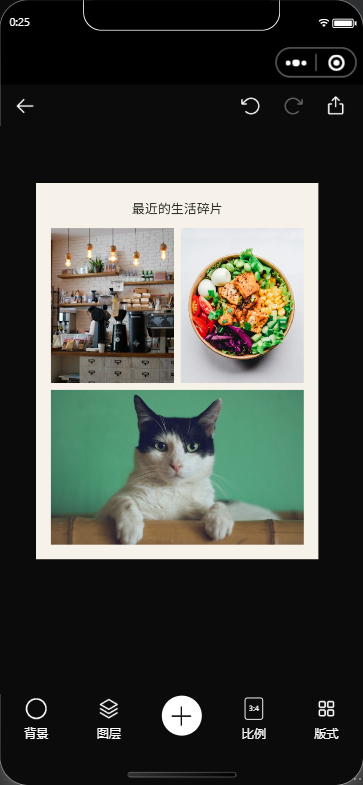
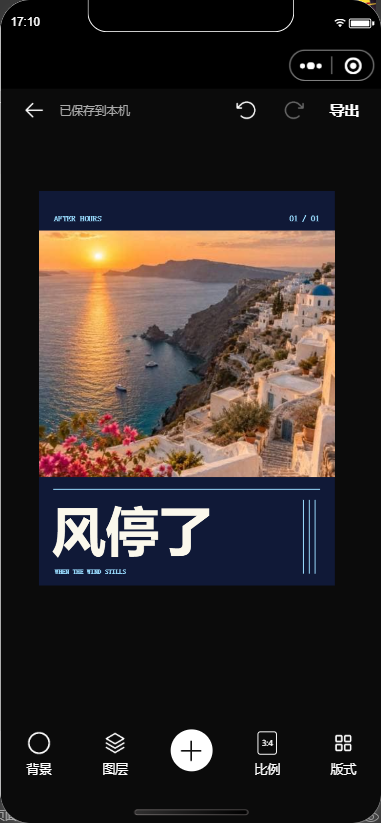
feat(home): 恢复小程序和 Web 作品并更新截图轮播
从拼一页和薪动当前项目重新采集 11 张截图，恢复六语介绍、已确认的发布状态和产品入口。统一卡片内侧按钮、滑动与键盘切换，拼一页返回首项恢复组合，薪动响应式使用横竖屏截图。同步独立页图片和 README，完成构建、站点检查及英简繁桌面与窄屏实际渲染验证。

diff --git a/src/styles/playground.css b/src/styles/playground.css
@@ -46,7 +46,7 @@ html:is([lang=en],[lang=es]) .work-categories{width:min(100%,500px)}
 }
 .product-flappy{background:radial-gradient(ellipse at 60% 30%,#fff1e1,#fff4e8)}
 .product-pinyiye{grid-column:1/-1;height:auto;min-height:calc(390 * var(--u));grid-template-columns:minmax(0,.95fr) minmax(0,1fr);padding:calc(28 * var(--u)) calc(48 * var(--u));gap:calc(48 * var(--u));background:#edf4e9}
-.pinyiye-artwork{position:relative;align-self:center;width:100%;height:calc(340 * var(--u));padding:0;border:0;border-radius:20px;background:transparent;cursor:zoom-in}
+.pinyiye-artwork{position:relative;align-self:center;width:100%;height:calc(340 * var(--u));padding:0;border:0;border-radius:20px;background:transparent}
 .pinyiye-print{position:absolute;top:calc(60 * var(--u));width:42%;max-width:calc(165 * var(--u));box-shadow:0 8px 18px #30463426}
 .pinyiye-print img{display:block;width:100%;height:auto}
 .pinyiye-print-weekend{left:0;transform:rotate(-10deg)}
@@ -77,6 +77,7 @@ html:is([lang=en],[lang=es]) .work-categories{width:min(100%,500px)}
 .carousel-viewport::-webkit-scrollbar{display:none}
 .carousel-slide{position:relative;display:block;flex:0 0 100%;width:100%;height:100%;min-width:0;padding:0;border:0;background:transparent;scroll-snap-align:start;scroll-snap-stop:always}
 .carousel-single{display:block;width:100%;height:100%}
+.carousel-single>picture{display:block;width:100%;height:100%}
 .carousel-intro{display:none;position:absolute;inset:0;transform:scale(.94)}
 [data-carousel-intro]:not([data-carousel-started]) .carousel-slide:first-child .carousel-single{visibility:hidden}
 [data-carousel-intro]:not([data-carousel-started]) .carousel-intro{display:block}
@@ -90,6 +91,28 @@ html:is([lang=en],[lang=es]) .work-categories{width:min(100%,500px)}
 .carousel-arrow:focus-visible{opacity:1;pointer-events:auto;outline-offset:-4px}
 .carousel-status{position:absolute;width:1px;height:1px;overflow:hidden;clip-path:inset(50%);white-space:nowrap}
 @media(hover:hover) and (pointer:fine){.carousel-arrow{pointer-events:auto}.carousel-arrow:hover{opacity:1}}
+.product-pinyiye .product-carousel{--carousel-height:calc(340 * var(--u));width:100%;height:var(--carousel-height);max-width:430px;aspect-ratio:auto;justify-self:center}
+.product-pinyiye .carousel-viewport{border-radius:0;background:transparent;box-shadow:none}
+.product-pinyiye [data-carousel-started] .carousel-viewport{width:calc(var(--carousel-height) * .75);max-width:100%;margin:auto}
+.product-pinyiye .pinyiye-artwork{display:block;height:100%}
+.product-pinyiye .pinyiye-phone img{width:auto;height:100%}
+.product-pinyiye .pinyiye-print{top:13%;height:74%;width:33%;max-width:none}
+.product-pinyiye .pinyiye-print img{width:100%;height:100%;object-fit:contain}
+.product-pinyiye .pinyiye-print-weekend{left:4%}
+.product-pinyiye .pinyiye-print-sunshine{right:4%;top:16%}
+.product-golden-hour{grid-column:1/-1;height:auto;min-height:440px;grid-template-columns:minmax(0,1.35fr) minmax(280px,.65fr);gap:46px;align-items:center;padding:40px;background:#fff0c5}
+.product-golden-hour .product-carousel{width:100%;height:auto;max-width:none;aspect-ratio:1440/1000;justify-self:center}
+.product-golden-hour .carousel-viewport{position:absolute;inset:0;border-radius:24px;background:#15140f;box-shadow:0 24px 48px #5e410c33}
+.golden-demo-label{position:absolute;top:16px;left:16px;border-radius:99px;background:#fffcf6;color:#60450e;padding:8px 12px;font-size:11px;font-weight:900;box-shadow:0 8px 20px #0003}
+.golden-hour-info h3{font-size:34px;letter-spacing:-.03em;line-height:1.2;margin:0 0 18px}
+.golden-hour-info .product-description{font-size:15px;line-height:1.75;min-height:0;max-width:440px;margin-bottom:16px;text-wrap:pretty}
+.golden-hour-meta .product-type,.golden-hour-meta .product-status{margin:0;padding:8px 15px;font-size:14px}
+.golden-hour-meta .product-type{background:#efd38c;color:#65480e}.golden-hour-meta .product-status{background:#d6f0dd;color:#275b36}
+.golden-hour-link{display:inline-flex;align-items:center;gap:16px;margin-top:22px;color:#75530d;font-size:15px;font-weight:900;text-decoration:underline;text-underline-offset:6px}
+.golden-hour-link:hover{color:#a5263e}
+.golden-hour-link:focus-visible{outline:3px solid #7f5e15;outline-offset:5px;border-radius:4px}
+@media(min-width:768px) and (max-width:1023px){.product-pinyiye .product-carousel{--carousel-height:300px}.product-golden-hour{padding:32px;gap:32px}.golden-hour-info h3{font-size:28px}}
+@media(max-width:767px){.product-pinyiye .product-carousel{--carousel-height:290px;max-width:360px}.product.product-golden-hour{grid-template-columns:minmax(0,1fr);padding:25px 20px 30px;gap:28px;min-height:0}.product-golden-hour .product-carousel{max-width:240px;aspect-ratio:390/844}.product-golden-hour .carousel-viewport{border-radius:18px}.golden-hour-info{padding:0}.golden-hour-info h3{font-size:29px}.golden-hour-info .product-description{font-size:14px}.golden-hour-link{margin-top:20px}}
 .product-info{padding-top:calc(19 * var(--u));display:flex;align-items:flex-start;flex-direction:column;min-width:0}
 .product-info h3{font-size:calc(36 * var(--u));font-weight:900;line-height:1.02;letter-spacing:-.045em;margin-bottom:calc(19 * var(--u))}
 .product-info h3 span{display:block}
@@ -140,6 +163,11 @@ body.playground .lang-menu .lang-option{font-size:14px!important;padding:12px 16
 .mini-program-dialog{border:0;border-radius:24px;padding:20px;background:#fffcf6;color:#16191c;max-width:min(560px,calc(100vw - 28px));width:100%;max-height:calc(100dvh - 32px);margin:auto;box-shadow:0 24px 120px #0004}
 .mini-program-dialog::backdrop{background:#0f1519b3;backdrop-filter:blur(6px)}
 .mini-program-dialog{width:360px;max-width:calc(100vw - 32px);padding:24px;overflow:auto;text-align:center}
+body.mini-program-open{overflow:hidden}
+.mini-program-header{display:flex;align-items:center;justify-content:space-between;gap:16px}
+.mini-program-header h2{font-size:20px;font-weight:900}
+.mini-program-close{flex:none;border:0;width:44px;height:44px;border-radius:50%;background:#eee9df;cursor:pointer;color:#16191c;font-size:26px!important}
+.mini-program-close:hover{background:#ffe2bc}
 .mini-program-code{width:258px;height:auto;max-width:100%;margin:20px auto 0;background:#fff}
 .mini-program-code-hint{margin-top:20px;color:#314637;font-size:15px;line-height:1.7;text-wrap:pretty}
 @media(prefers-reduced-motion:no-preference){html{scroll-behavior:smooth}}

diff --git a/src/i18n/ko.ts b/src/i18n/ko.ts
@@ -5,7 +5,7 @@ export const koHome = {
   explore: '작품 둘러보기', selected: '주요 작품', categories: { label: '종류별 작품 보기', all: '전체', games: '게임', mini: '미니앱', apps: '웹 앱', result: '표시된 작품: {count}개' },
   breakout: '간결한 벽돌 깨기. 공이 튕기는 순간에 집중하세요.', flappy: '탭해서 뛰어오르고, 링을 통과하며 별을 모으세요.',
   youcanup: { name: 'YouCanUp', description: '길게 눌러 힘을 모으고 손을 떼어 점프하세요. 클레이 세상에서 최고 기록에 도전해 보세요.', menuAlt: '주황색 클레이 캐릭터가 보라색과 초록색 발판 사이를 뛰는 YouCanUp 메뉴', gameplayAlt: '입체 발판, 높이 점수, 길게 누르기 버튼이 표시된 YouCanUp 게임 화면', aimAlt: '알록달록한 아치 사이에서 목표 발판으로 점프하는 YouCanUp 캐릭터', chargeAlt: '손을 떼어 점프하는 버튼이 표시된 YouCanUp 충전 화면', resultsAlt: '11.8미터 신기록을 표시하는 YouCanUp 결과 화면', outfitsAlt: '클레이 캐릭터 여섯 가지를 표시하는 YouCanUp 꾸미기 화면' },
-  pinyiye: { name: '拼一页', description: '사진을 배치하고 글을 더해 콜라주를 한 장의 이미지로 저장하세요.', type: '미니앱', platform: 'WeChat', status: '출시됨', open: '미니앱 열기', codeHint: 'WeChat으로 코드를 스캔해 미니앱을 여세요.', codeAlt: '拼一页의 WeChat 미니앱 코드', closeCode: '미니앱 코드 닫기', editorAlt: '사진 세 장의 콜라주와 편집 도구가 표시된 拼一页 사진 편집기', weekendAlt: '종이 액자와 테이프로 꾸민 주말 사진 네 장의 콜라주', sunshineAlt: '사진 액자가 겹쳐진 바닷가 콜라주', exportAlt: '이미지 저장 및 미리보기 기능이 있는 拼一页 내보내기 화면' },
+  pinyiye: { name: '拼一页', description: '사진을 배치하고 글을 더해 콜라주를 한 장의 이미지로 저장하세요.', type: '미니앱', platform: 'WeChat', status: '출시됨', open: '미니앱 열기', codeHint: 'WeChat으로 코드를 스캔해 미니앱을 여세요.', codeAlt: '拼一页의 WeChat 미니앱 코드', closeCode: '미니앱 코드 닫기', homeAlt: '템플릿 표지와 사진 이야기가 표시된 拼一页 홈', templatesAlt: '검색과 장면별 카테고리가 있는 拼一页 템플릿 목록', detailAlt: '사진 포스터와 템플릿 사용 버튼이 있는 拼一页 상세 화면', editorAlt: '배경, 레이어, 비율 및 내보내기 도구가 있는 拼一页 사진 포스터 편집기', weekendAlt: '종이 액자와 테이프로 꾸민 주말 사진 네 장의 콜라주', sunshineAlt: '사진 액자가 겹쳐진 바닷가 콜라주', exportAlt: '이미지 저장 및 미리보기 기능이 있는 拼一页 내보내기 화면' },
   goldenHour: { name: '薪动 · Golden Hour', description: '근무 수입 예상치가 실시간으로 늘어나는 모습을 보고 오늘, 이번 달, 올해의 기록을 돌아보세요.', type: '웹 앱', platform: '브라우저', status: '출시됨', open: '제품 보기', dashboardAlt: '데모 수입 데이터를 표시하는 薪动 메인 화면', monthlyAlt: '데모 수입 데이터를 표시하는 薪动 월간 달력', yearlyAlt: '데모 수입 데이터를 표시하는 薪动 연간 보고서', demo: '데모 데이터' },
   game: '게임', available: '출시됨', coming: '출시 예정', download: '다운로드하기', philosophy: '작은 디테일로 더 나은 경험을.',
   values: [{ title: '더 편리하게', body: '간단하고 직관적으로, 필요한 도움을' }, { title: '더 즐겁게', body: '평범한 일상 속 작은 즐거움을' }, { title: '꾸준한 개선', body: '작은 부분부터 정성껏 다듬습니다' }],

diff --git a/src/i18n/es.ts b/src/i18n/es.ts
@@ -5,7 +5,7 @@ export const esHome = {
   categories: { label: 'Filtrar proyectos por tipo', all: 'Todos', games: 'Juegos', mini: 'Miniapps', apps: 'Apps web', result: 'Proyectos mostrados: {count}' },
   breakout: 'Rompe ladrillos sin distracciones. Haz que cada rebote cuente.', flappy: 'Toca para saltar. Atraviesa los aros y recoge las estrellas.',
   youcanup: { name: 'YouCanUp', description: 'Mantén pulsado para cargar, suelta para saltar y supera tu récord en un mundo de plastilina.', menuAlt: 'Menú de YouCanUp con un personaje naranja de plastilina que salta entre plataformas moradas y verdes', gameplayAlt: 'Partida de YouCanUp con plataformas 3D, contador de altura y botón para cargar el salto', aimAlt: 'Personaje de YouCanUp saltando hacia una plataforma entre arcos de colores', chargeAlt: 'YouCanUp cargando un salto con el botón para soltar y saltar', resultsAlt: 'Resultados de YouCanUp con un nuevo récord de 11,8 metros', outfitsAlt: 'Pantalla de apariencia de YouCanUp con seis personajes de plastilina' },
-  pinyiye: { name: '拼一页', description: 'Organiza tus fotos, añade texto y exporta tu collage como una sola imagen.', type: 'Miniapp', platform: 'WeChat', status: 'Publicada', open: 'Abrir miniapp', codeHint: 'Escanea el código con WeChat para abrir la miniapp.', codeAlt: 'Código de la miniapp de WeChat Pinyiye', closeCode: 'Cerrar código de la miniapp', editorAlt: 'Editor de fotos Pinyiye con un collage de tres fotos y herramientas de edición', weekendAlt: 'Collage de cuatro fotos de fin de semana con marcos de papel y cinta adhesiva', sunshineAlt: 'Collage junto al mar con marcos de fotos superpuestos', exportAlt: 'Pantalla de exportación de Pinyiye con opciones para guardar y previsualizar la imagen' },
+  pinyiye: { name: '拼一页', description: 'Organiza tus fotos, añade texto y exporta tu collage como una sola imagen.', type: 'Miniapp', platform: 'WeChat', status: 'Publicada', open: 'Abrir miniapp', codeHint: 'Escanea el código con WeChat para abrir la miniapp.', codeAlt: 'Código de la miniapp de WeChat Pinyiye', closeCode: 'Cerrar código de la miniapp', homeAlt: 'Inicio de Pinyiye con portadas de plantillas e historias fotográficas', templatesAlt: 'Biblioteca de plantillas Pinyiye con búsqueda y categorías', detailAlt: 'Detalle de plantilla Pinyiye con un póster fotográfico y el botón para usarla', editorAlt: 'Editor de pósteres Pinyiye con herramientas de fondo, capas, proporción y exportación', weekendAlt: 'Collage de cuatro fotos de fin de semana con marcos de papel y cinta adhesiva', sunshineAlt: 'Collage junto al mar con marcos de fotos superpuestos', exportAlt: 'Pantalla de exportación de Pinyiye con opciones para guardar y previsualizar la imagen' },
   goldenHour: { name: '薪动 · Golden Hour', description: 'Observa crecer en tiempo real una estimación de tus ingresos y revisa los registros del día, el mes y el año.', type: 'App web', platform: 'Navegador', status: 'Publicada', open: 'Ver producto', dashboardAlt: 'Panel de 薪动 con datos de ingresos de demostración', monthlyAlt: 'Calendario mensual de 薪动 con datos de ingresos de demostración', yearlyAlt: 'Informe anual de 薪动 con datos de ingresos de demostración', demo: 'Datos de demostración' },
   game: 'Juego', available: 'Disponible', coming: 'Próximamente', download: 'Descárgalo en', philosophy: 'Pequeños detalles. Mejores experiencias.',
   values: [{ title: 'Un poco más fácil', body: 'Sencillo, intuitivo y pensado para ayudar' }, { title: 'Un poco más alegre', body: 'Encuentra diversión en lo cotidiano' }, { title: 'Siempre mejorando', body: 'Cuidamos y pulimos cada detalle' }],

diff --git a/src/i18n/home.ts b/src/i18n/home.ts
@@ -33,7 +33,10 @@ const originalHomeCopy = {
       codeHint: 'Scan with WeChat to open the Mini Program.',
       codeAlt: 'WeChat Mini Program code for Pinyiye',
       closeCode: 'Close Mini Program code',
-      editorAlt: 'Pinyiye photo editor with a three-photo collage and editing tools',
+      homeAlt: 'Pinyiye home with template covers and featured photo stories',
+      templatesAlt: 'Pinyiye template library with search and scene categories',
+      detailAlt: 'Pinyiye template detail with a photo poster and the use template button',
+      editorAlt: 'Pinyiye photo poster editor with background, layers, ratio and export tools',
       weekendAlt: 'A four-photo weekend collage with paper frames and tape',
       sunshineAlt: 'A seaside collage with overlapping photo frames',
       exportAlt: 'Pinyiye export screen with save image and preview controls',
@@ -85,7 +88,10 @@ const originalHomeCopy = {
       codeHint: '使用微信扫一扫打开小程序。',
       codeAlt: '拼一页微信小程序码',
       closeCode: '关闭小程序码',
-      editorAlt: '拼一页照片编辑器，展示三张照片组成的拼图与编辑工具',
+      homeAlt: '拼一页首页，展示模板封面与精选照片故事',
+      templatesAlt: '拼一页模板库，展示搜索与场景分类',
+      detailAlt: '拼一页模板详情，展示照片海报与使用模板按钮',
+      editorAlt: '拼一页照片海报编辑器，展示背景、图层、比例和导出工具',
       weekendAlt: '带有纸质相框和胶带的四张照片周末拼图',
       sunshineAlt: '带有叠放相框的海边照片拼图',
       exportAlt: '拼一页导出界面，提供保存图片与预览大图功能',
@@ -136,7 +142,10 @@ const originalHomeCopy = {
       codeHint: '使用微信掃一掃開啟小程式。',
       codeAlt: '拼一页微信小程式碼',
       closeCode: '關閉小程式碼',
-      editorAlt: '拼一页照片編輯器，展示三張照片組成的拼圖與編輯工具',
+      homeAlt: '拼一页首頁，展示範本封面與精選照片故事',
+      templatesAlt: '拼一页範本庫，展示搜尋與場景分類',
+      detailAlt: '拼一页範本詳情，展示照片海報與使用範本按鈕',
+      editorAlt: '拼一页照片海報編輯器，展示背景、圖層、比例和匯出工具',
       weekendAlt: '帶有紙質相框和膠帶的四張照片週末拼圖',
       sunshineAlt: '帶有疊放相框的海邊照片拼圖',
       exportAlt: '拼一页匯出介面，提供儲存圖片與預覽大圖功能',

diff --git a/src/i18n/ja.ts b/src/i18n/ja.ts
@@ -22,7 +22,10 @@ export const jaHome = {
     name: '拼一页', description: '写真を並べて文字を添え、コラージュを1枚の画像に書き出せます。',
     type: 'ミニアプリ', platform: 'WeChat', status: '公開済み', open: 'ミニアプリを開く',
     codeHint: 'WeChat でコードを読み取ってミニアプリを開いてください。', codeAlt: '拼一页の WeChat ミニアプリコード', closeCode: 'ミニアプリコードを閉じる',
-    editorAlt: '3枚の写真のコラージュと編集ツールを表示した拼一页の写真エディター',
+    homeAlt: 'テンプレートの表紙と写真ストーリーを表示した拼一页のホーム',
+    templatesAlt: '検索とシーン別カテゴリがある拼一页のテンプレート一覧',
+    detailAlt: '写真ポスターとテンプレートを使うボタンがある拼一页の詳細画面',
+    editorAlt: '背景、レイヤー、比率、書き出しツールがある拼一页の写真ポスターエディター',
     weekendAlt: '紙のフレームとテープで飾った4枚の週末写真のコラージュ', sunshineAlt: '写真のフレームを重ねた海辺のコラージュ',
     exportAlt: '画像の保存とプレビューができる拼一页の書き出し画面',
   },

diff --git a/README.md b/README.md
@@ -7,7 +7,7 @@
 - 展示《你行你上啊 · YouCanUp》和《Minimalist Breakout》的介绍与游戏截图
 - 首页展示《你行你上啊》（YouCanUp）的图标、实机截图与简洁玩法介绍；当前标注 iOS、即将推出，产品介绍格式见 `AGENTS.md`
 - YouCanUp 与 Minimalist Breakout 的首页展示图及截图轮播已同步项目现有的新素材，来源与更新日期见下方“内容维护”
-- 首页仅展示游戏，不再展示小程序和 Web 项目，也不再提供作品分类筛选
+- 首页展示两款游戏、「拼一页」微信小程序和「薪动 · Golden Hour」Web 项目，不提供作品分类筛选
 - 「薪动 · Golden Hour」保留六语独立落地页，分区介绍日常计薪、收入记录与分享、浏览器与安装、数据与隐私。桌面与手机采用对应的真实截图，按原比例显示。
 - 提供英语、简体中文、繁体中文、日语、韩语和西班牙语页面；英语为默认语言
 - 包含关于我们、技术支持、隐私政策和服务条款页面
@@ -61,7 +61,7 @@ npm run dev
 
 独立的 `/motion-studies/` 对比页保留第二轮“整卡推近”“图文对向入场”“叠卡交接”和静态基线，使用真实首页，支持六语、宽屏/手机及自动滚动演示。预览通过 iframe 标识与 `motion-study` 参数关闭首页自动安装的动效，再由对比页安装所选方案，预览内导航后也不会重复安装。旧方案与验证记录保留在 `docs/design/2026-10-16-scroll-motion/` 作为历史记录。
 
-首页精选作品仅展示 YouCanUp 和 Minimalist Breakout，桌面端各占一整行；Flappy Ball Hop 展示及其页脚入口已移除。产品图片不再提供弹框预览或放大入口。历史作品分类实现与六语文案暂时保留，但首页不再加载分类脚本或渲染筛选控件；历史方案及截图见 `docs/design/2026-10-16-work-categories/`。
+首页精选作品展示薪动、拼一页、YouCanUp 和 Minimalist Breakout，桌面端各占一整行；Flappy Ball Hop 展示及其页脚入口已移除。四款产品共用 `ProductCarousel.astro` 与 `src/scripts/product-carousel.ts`，截图均不提供弹框预览或放大入口。历史作品分类实现与六语文案暂时保留，但首页不加载分类脚本或渲染筛选控件；历史方案及截图见 `docs/design/2026-10-16-work-categories/`。
 
 YouCanUp 和 Minimalist Breakout 的首页产品图共用 `ProductCarousel.astro` 与 `src/scripts/product-carousel.ts`，各提供六张截图，不自动播放。YouCanUp 第一项为原来的菜单与实机双图组合，向右切换后每次显示一张，向左切回第一项恢复双图，无需刷新；双图与单图可以反复往返切换。Minimalist Breakout 默认只显示第一张。手机可左右滑动，触控板可横向滚动；桌面鼠标移到作品卡片左右内边缘时显示对应箭头，按钮距边缘 8px、垂直居中，单图与双图模式保持相同位置，点击切换。键盘可聚焦箭头或当前截图，用方向键切换，首尾箭头按实际位置禁用；纵向手势仍滚动页面。悬停或点击截图均不打开弹框。未启用 JavaScript 时仍可原生横向浏览截图。
 
@@ -89,9 +89,11 @@ YouCanUp 和 Minimalist Breakout 的首页产品图共用 `ProductCarousel.astro
 - 2026-11-06 六语法律文档已补充 YouCanUp 的 Game Center 资料、玩家标识与本地哈希、排行榜成绩同步、公开展示、Apple 保存及退出／删除边界；隐私政策另说明独立统计先同意、拒绝仍可游玩、设置中撤回及历史数据处理边界；服务条款说明每局最多成功复活一次、广告奖励确认条件和续玩成绩规则
 - 提交前至少执行一次 `npm run build`
 
-「拼一页」已从六语首页移除，截图预览与小程序码弹窗也不再渲染。原有 `src/i18n/home.ts` 的 `pinyiye` 文案与 `src/assets/pinyiye/` 素材保留，小程序码保留原始文件，不做有损转换或裁切。
+2026-11-16 恢复「拼一页」六语首页展示，用户已确认正式发布。使用 `photo-collage-mini-program` 当前 `71d2fae` 代码，在微信开发者工具重新截取首页、模板库、模板详情、编辑器和导出页，保存到 `src/assets/pinyiye/` 的 `home.png`、`templates.png`、`detail.png`、`editor.png`、`export.png`。第一项为编辑器与两张界面的组合，向右逐张切换，返回第一项恢复组合。产品入口打开原有微信小程序码供扫描；小程序码使用原始文件，不做有损转换或裁切，点击截图本身不弹框。
 
-2026-11-16 更新游戏截图：YouCanUp 使用相邻 `you-can-up-godot-handoff` 项目中 `game/output/app-store-media/editor/public/screenshots/search-menu/zh-Hans.png` 的菜单图，以及 `apple/iphone/zh-Hans/` 的五张游戏截图，同步到 `src/assets/youcanup/`，包括菜单、待蓄力、瞄准、蓄力、结算和造型；Minimalist Breakout 使用相邻 `minimalist-breakout` 项目中 `design/v1.1/store/screenshots/` 的六张截图，按文件名顺序同步到 `src/assets/screenshots/minimalist-breakout/1.png` 至 `6.png`。原图直接复制，首页轮播与截图弹窗共用并完整显示画面。
+同日恢复「薪动 · Golden Hour」六语首页，基于 `golden-hour` 当前 `a7a71ad` 的本地运行界面重新截取主界面、月历、年报，桌面 1440×1000、手机 390×844，共六张图片，更新 `src/assets/golden-hour/`。采集使用内存中的示例记录和演示模式，不读取或写入个人收入归档；页面标注演示数据。桌面和窄屏自动显示对应截图，产品链接通向当前语言的独立落地页，落地页共享更新后的图片。两个恢复项目的切换按钮与 YouCanUp 相同，固定在作品卡片左右内边缘，支持鼠标、键盘及滑动。
+
+2026-11-16 更新游戏截图：YouCanUp 使用相邻 `you-can-up-godot-handoff` 项目中 `game/output/app-store-media/editor/public/screenshots/search-menu/zh-Hans.png` 的菜单图，以及 `apple/iphone/zh-Hans/` 的五张游戏截图，同步到 `src/assets/youcanup/`，包括菜单、待蓄力、瞄准、蓄力、结算和造型；Minimalist Breakout 使用相邻 `minimalist-breakout` 项目中 `design/v1.1/store/screenshots/` 的六张截图，按文件名顺序同步到 `src/assets/screenshots/minimalist-breakout/1.png` 至 `6.png`。原图直接复制，首页轮播完整显示画面。
 
 ## 部署
 
